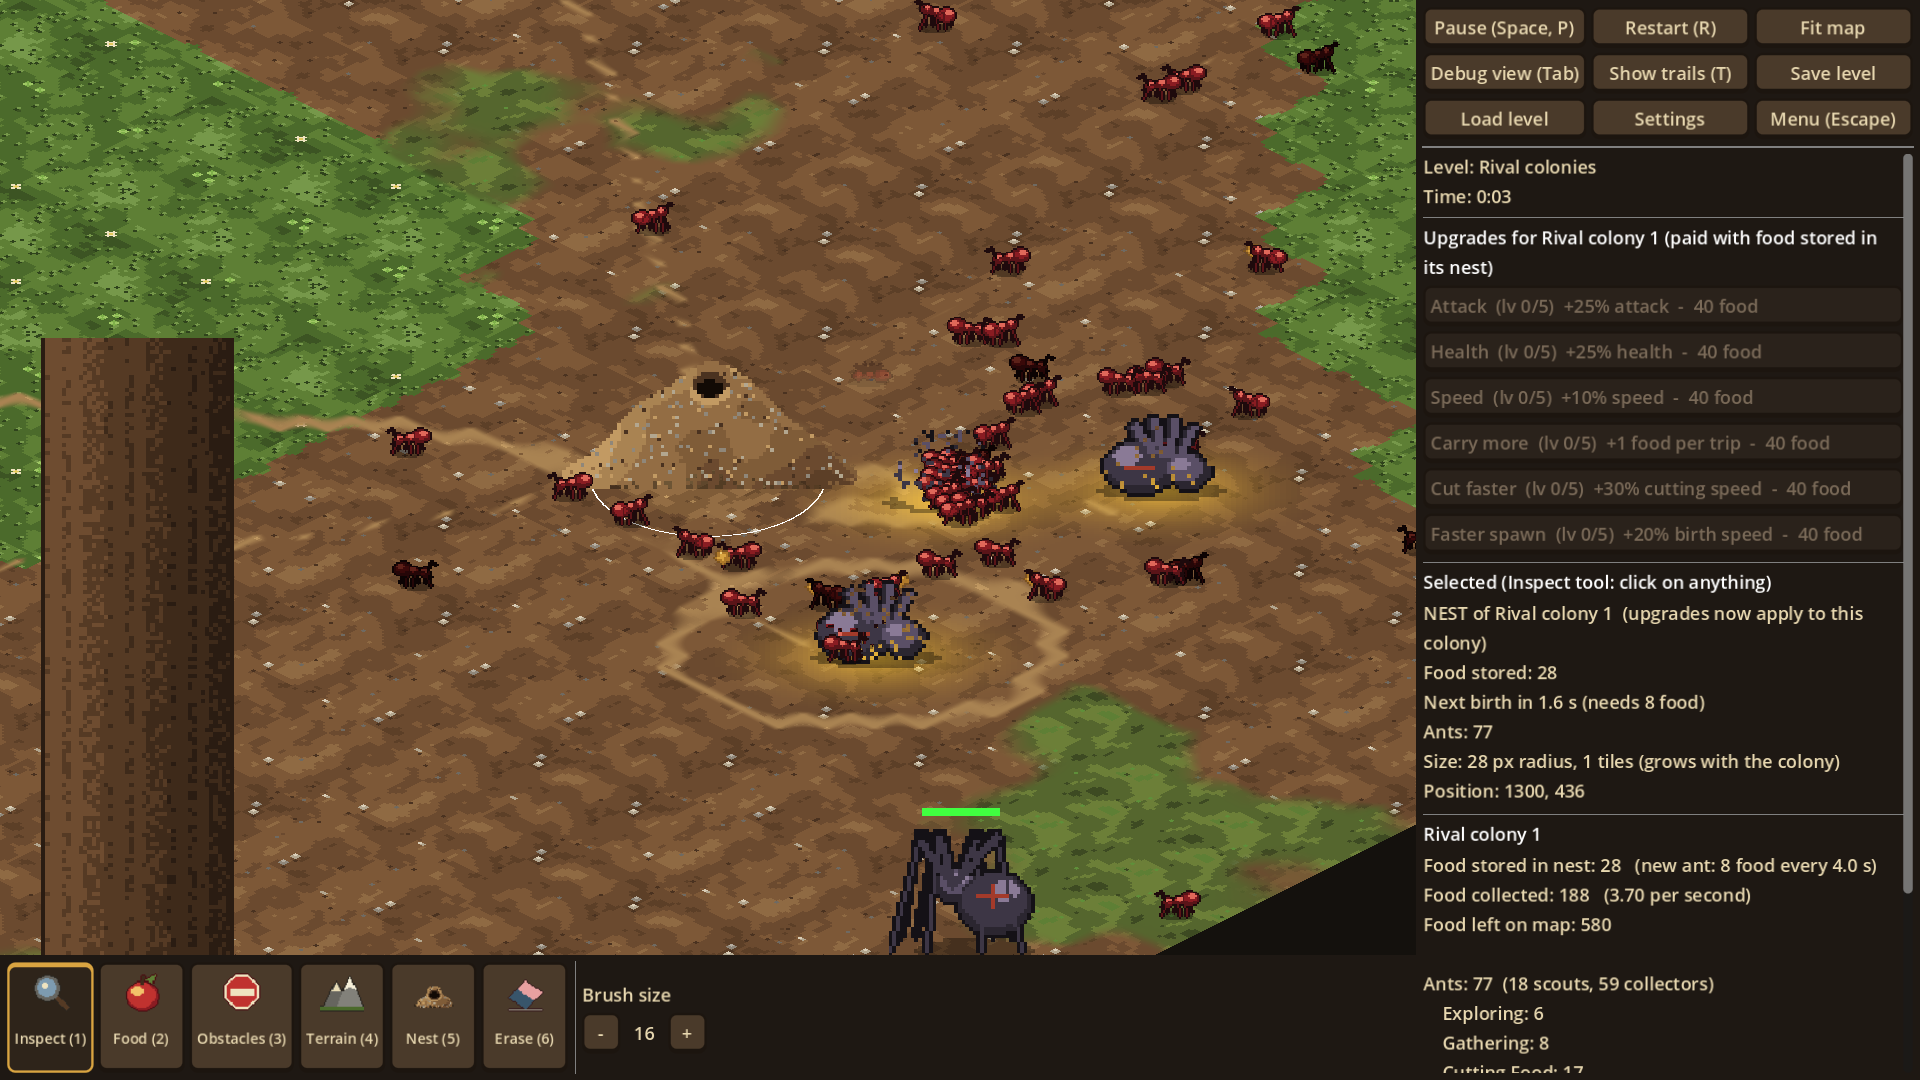
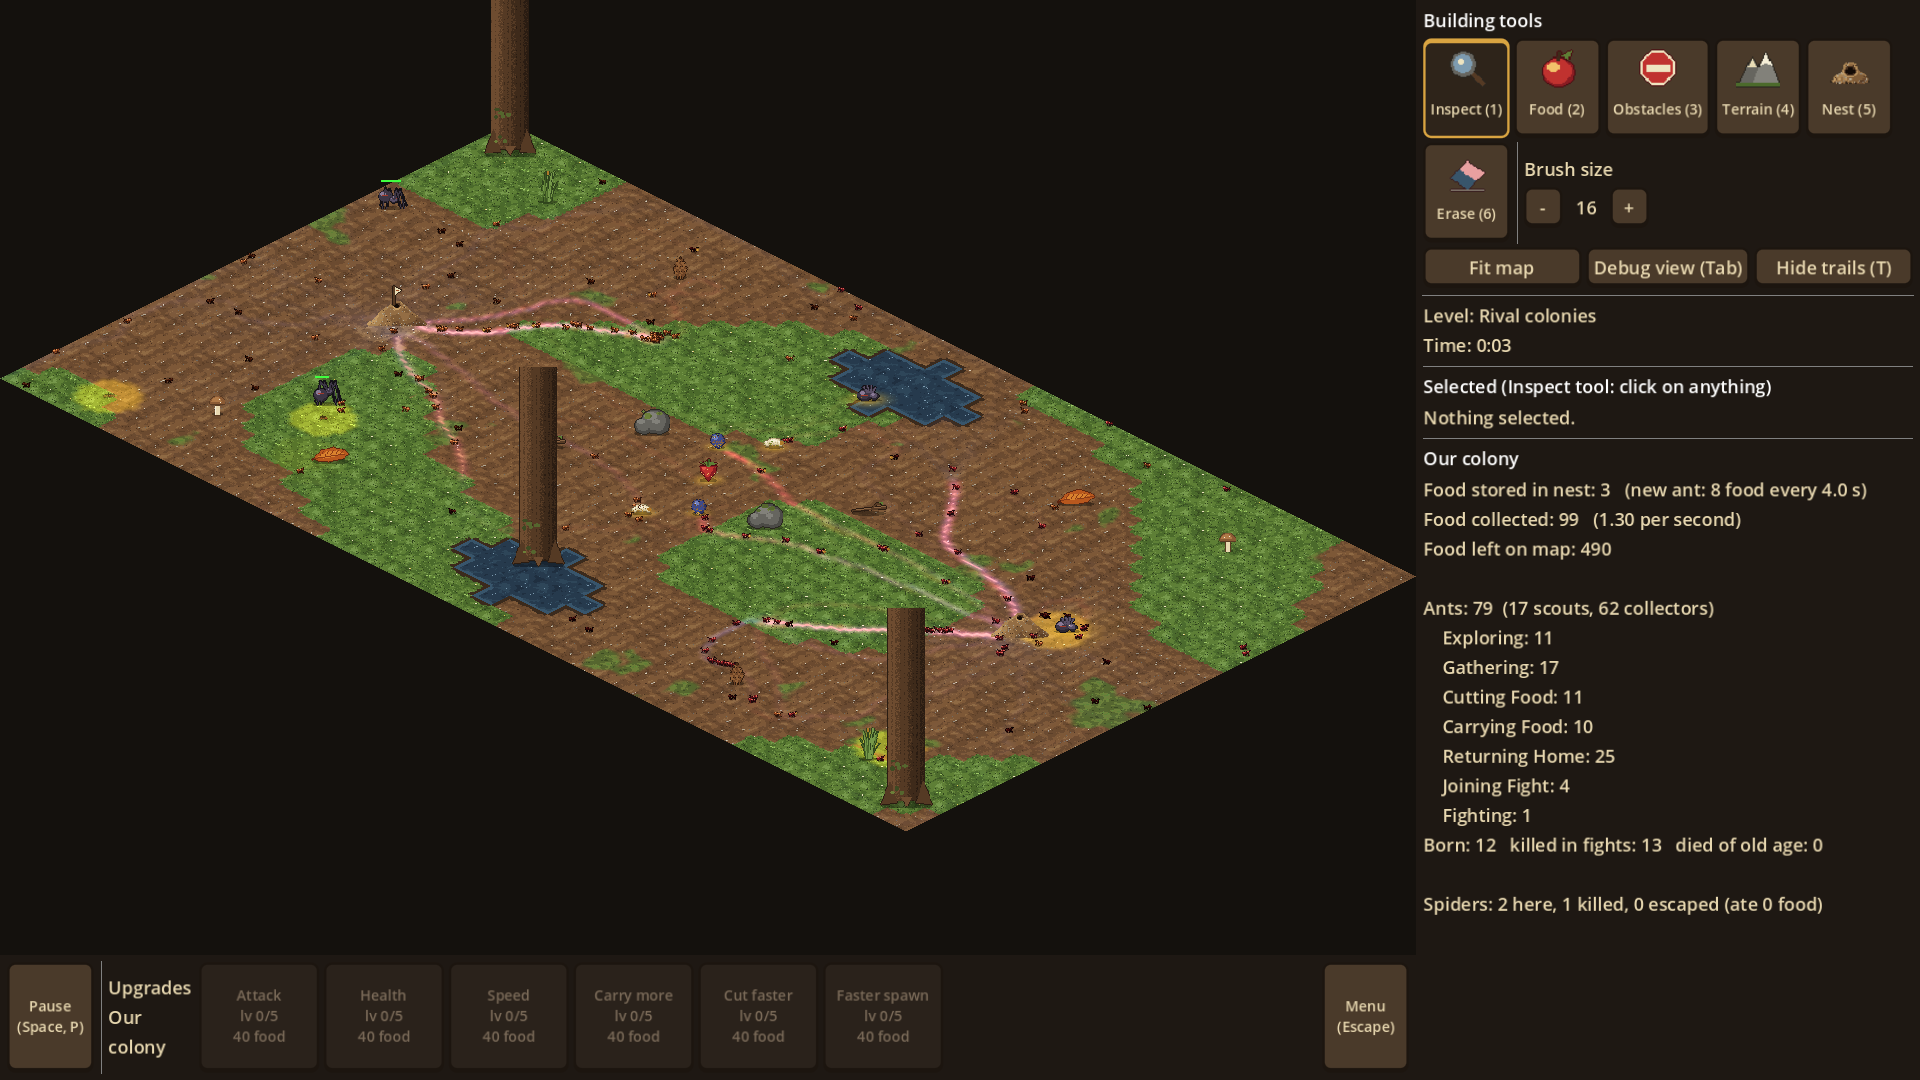
Gameplay bar under the map (pause, upgrades, menu); building tools and data on the right
- Bar under the map: play/pause, upgrade buttons for the current colony, Menu button with
  restart, save level, load level, settings and main menu (Escape opens it too)
- Side panel: building / testing tools (inspect, food, obstacles, terrain, nest, erase),
  fit map / view / trails buttons, and all the data

Claude-Session: https://claude.ai/code/session_01WgzXzfaQUjtMvM4pzDXMDx

diff --git a/README.md b/README.md
@@ -8,14 +8,15 @@ A video game prototype made with **Godot 4.3+** (standard version, not .NET).
 2. Open Godot → **Import** → select `project.godot` in this folder.
 3. Press **F5** (Run). The game opens on the main menu: pick Level 1 to 4, or open Settings.
 
-Screen: the map in the top left, the **tool bar** under it, everything else on the right
-(game buttons: pause, restart, fit map, views, trails, save, load, settings, menu; then the level,
-upgrades, the selected thing and colony statistics).
+Screen: the map in the top left. Under it the **gameplay bar**: play/pause, the upgrade buttons
+(level and cost in food) and **Menu** (restart, save level, load level, settings, main menu).
+On the right the **building / testing tools** (inspect, food, obstacles, terrain, nest, erase),
+debug buttons (fit map, debug view, trails) and all the data (level, selection, colony statistics).
 
 | Control | Action |
 |---|---|
-| Tool bar (bottom) or keys **1**-**6** | Inspect / **Food** (apple) / **Obstacles** (stop sign) / **Terrain** (mountains) / Nest / Erase |
-| Food, Obstacles, Terrain | The whole bar turns into that page, one button per item showing the item itself (blueberry, strawberry, larva...; rock, twig, tree trunk...; dirt, grass, water). **Backspace** or Back returns |
+| Building tools (right) or keys **1**-**6** | Inspect / **Food** (apple) / **Obstacles** (stop sign) / **Terrain** (mountains) / Nest / Erase |
+| Food, Obstacles, Terrain | The tools turn into that page, one button per item showing the item itself (blueberry, strawberry, larva...; rock, twig, tree trunk...; dirt, grass, water). **Backspace** or Back returns |
 | Left mouse | Use the tool: inspect anything, place one object per click, paint terrain, erase, move the nest |
 | Right mouse | Erase objects under the brush (any tool) |
 | **[** / **]** or **-** / **=** | Brush size |
@@ -23,10 +24,10 @@ upgrades, the selected thing and colony statistics).
 | Middle mouse drag, arrows or **WASD** | Move the map |
 | **Space** | Pause (you can still paint while paused) |
 | **R** | Restart the level |
-| Side panel buttons | Upgrades, paid with food stored in the nest |
+| Gameplay bar | Upgrades, paid with food stored in the nest |
 | Save level / Load level | Save the current map as a level / start another level |
 | Settings (main menu or tool bar) | Window resolution: 720p, 1080p, 1440p or 4K (16:9, remembered) |
-| **Escape** or Menu (tool bar) | Back to the main menu |
+| **Escape** or Menu (gameplay bar) | Game menu: restart, save level, load level, settings, main menu |
 | **Tab** or the view button (tool bar) | Switch between the isometric view and the flat debug view |
 | **T** or the trails button (tool bar) | Show / hide the pheromone trails |
 
